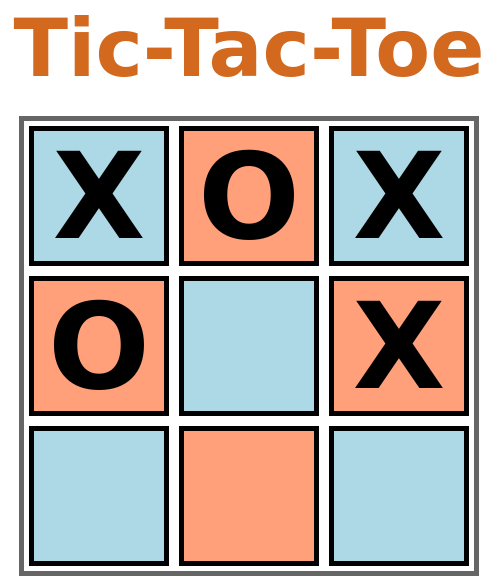
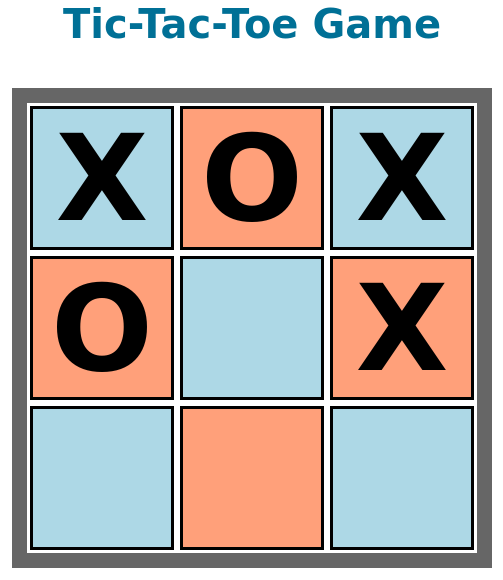
Ajout séance 8

diff --git a/seance08.html b/seance08.html
@@ -1,0 +1,167 @@
+<!DOCTYPE html>
+<html lang="en">
+
+<head>
+  <meta charset="UTF-8">
+  <meta name="viewport" content="width=device-width, initial-scale=1.0">
+  <title>Conception Web - Séance 7</title>
+  <link rel="stylesheet" href="assets/css/bootstrap.min.css">
+  <link rel="stylesheet" href="assets/css/default.css">
+  <link rel="stylesheet" href="assets/css/style.css">
+</head>
+
+<body>
+  <aside>
+    <nav class="navbar navbar-expand-sm navbar-dark bg-dark">
+      <div class="container-fluid">
+        <a class="navbar-brand" href="#">Web</a>
+        <button class="navbar-toggler" type="button" data-bs-toggle="collapse" data-bs-target="#aside_navbar"
+          aria-controls="navbarNavDropdown" aria-expanded="false" aria-label="Toggle navigation">
+          <span class="navbar-toggler-icon"></span> Menu
+        </button>
+        <div class="collapse navbar-collapse" id="aside_navbar"></div>
+      </div>
+    </nav>
+  </aside>
+  <main class="my-4 container">
+    <h1>Conception Web - Séance 8</h1>
+
+    <article>
+      <h2>Les feuilles de style</h2>
+
+      <section>
+        <h3>Tic-Tac-Toe Game</h3>
+
+        <p>On veut concevoir la plateforme du jeu, très connu : Tic-Tac-Toe</p>
+        <figure>
+          <img src="assets/downloads/tp6/images/tic-tac-toe.png" alt="Tic-Tac-Toe Game">
+          <figcaption>Tic-Tac-Toe Game</figcaption>
+        </figure>
+
+        <h4>Travail Demandé</h4>
+        <ol>
+          <li>Créer un dossier nommé : <strong>tictactoe</strong>. Créer dans ce dossier deux fichiers :
+            <ul>
+              <li>tictactoe.html</li>
+              <li>tictactoe.css</li>
+            </ul>
+          </li>
+          <li>Lier la feuille de style <strong>tictactoe.css</strong> au fichier HTML <strong>tictactoe.html</strong>.
+          </li>
+          <li>Copier/Coller le code HTML suivant dans la partie <code>&lt;body&gt;...&lt;/body&gt;</code> de la page.
+            <pre><code class="html">&lt;h1&gt;Tic-Tac-Toe Game&lt;/h1&gt;
+&lt;div id=&quot;game&quot;&gt;
+  &lt;div class=&quot;carre col-1&quot;&gt;X&lt;/div&gt;
+  &lt;div class=&quot;carre col-2&quot;&gt;O&lt;/div&gt;
+  &lt;div class=&quot;carre col-1&quot;&gt;X&lt;/div&gt;
+  &lt;div class=&quot;carre col-2&quot;&gt;O&lt;/div&gt;
+  &lt;div class=&quot;carre col-1&quot;&gt;&lt;/div&gt;
+  &lt;div class=&quot;carre col-2&quot;&gt;X&lt;/div&gt;
+  &lt;div class=&quot;carre col-1&quot;&gt;&lt;/div&gt;
+  &lt;div class=&quot;carre col-2&quot;&gt;&lt;/div&gt;
+  &lt;div class=&quot;carre col-1&quot;&gt;&lt;/div&gt;
+&lt;/div&gt;</code></pre>
+          </li>
+          <li>Mettre en forme le titre <code>&lt;h1&gt;...&lt;/h1&gt;</code>:
+            <ul>
+              <li>Police : sans-serif, Taille : 40px</li>
+              <li>Titre centré avec une marge verticale de 40px</li>
+              <li>Couleur : <span style="color: #007096;">#007096</span></li>
+            </ul>
+          </li>
+          <li>Mettre en forme l'élément ayant <strong>game</strong> comme id :
+            <ul>
+              <li>Largeur : 450 pixels</li>
+              <li>Display : <code>flex</code> avec retour à la ligne autmoatique</li>
+              <li>Marges horizontales : automatiques</li>
+              <li>Bordure de 15 pixels de couleur #666</li>
+            </ul>
+          </li>
+          <li>Mettre en forme l'élément ayant <strong>carre</strong> comme classe :
+            width: 120px;
+            height: 120px;
+            padding: 9px;
+            margin: 3px;
+            font-size: 120px;
+            font-weight: bold;
+            line-height: 120px;
+            text-align: center;
+            border: #000 solid 3px            
+            <ul>
+              <li>Dimensions : 120 pixels &times; 120 pixels</li>
+              <li>Marge intérieure : 9 pixels</li>
+              <li>Marge extérieure : 3 pixels</li>
+              <li>Texte centré, Taille : 120 pixels, Style : Gras</li>
+              <li>Bordure de 3 pixels couleur #000</li>
+              <li>Hauteur de lignes (line-height) : 120 pixels</li>
+            </ul>
+          </li>
+          <li>Mettre en form les éléments ayant <strong>col-1</strong> et <strong>col-2</strong> comme classes :
+            <ul>
+              <li>Couleur d'arrière plan de col-1 : lightblue</li>
+              <li>Couleur d'arrière plan de col-2 : lightsalmon</li>
+            </ul>
+          </li>
+        </ol>
+        <div class="d-none d-print-block">
+          <h4>Correction - Tic-Tac-Toe Game</h4>
+
+          <p>Contenu du fichier : <strong>tictactoe.css</strong></p>
+
+          <pre><code class="css">body {
+  font-family: sans-serif;
+  font-size: 20px;
+  padding: 0;
+}
+
+h1 {
+  text-align: center;
+  color: #007096;
+  margin: 40px 0;
+}
+
+#game {
+  width: 450px;
+  display: flex;
+  flex-wrap: wrap;
+  margin: 0 auto;
+  border: #666 solid 15px;
+}
+
+.carre {
+	width: 120px;
+	height: 120px;
+	padding: 9px;
+	margin: 3px;
+	font-size: 120px;
+  font-weight: bold;
+	line-height: 120px;
+	text-align: center;
+	border: #000 solid 3px;
+}
+
+.col-1 {
+  background-color: lightblue;
+}
+
+.col-2 {
+  background-color: lightsalmon;
+}</code></pre>
+        </div>
+      </section>
+    </article>
+  </main>
+  <footer class="d-print-none bg-dark text-white p-2">
+    <div class="text-center">Page créée avec ♥ par Mohamed Anis MANI</div>
+    <div class="text-center small">Année scolaire : 2021/2022</div>
+  </footer>
+  <script src="assets/js/bootstrap.bundle.min.js"></script>
+  <script src="assets/js/highlight.pack.js"></script>
+  <script src="assets/js/jquery.min.js"></script>
+  <script src="assets/js/pages.js"></script>
+  <script>
+    hljs.initHighlightingOnLoad();
+  </script>
+</body>
+
+</html>

diff --git a/assets/downloads/tp6/tictactoe/style.css b/assets/downloads/tp6/tictactoe/style.css
@@ -1,14 +1,13 @@
 body {
   font-family: sans-serif;
-  font-size: 40px;
-  margin: 0;
+  font-size: 20px;
   padding: 0;
 }
 
 h1 {
   text-align: center;
-  color: chocolate;
-  margin: 20px 0;
+  color: #007096;
+  margin: 40px 0;
 }
 
 #game {
@@ -16,19 +15,19 @@ h1 {
   display: flex;
   flex-wrap: wrap;
   margin: 0 auto;
-  border: #666 solid 5px;
+  border: #666 solid 15px;
 }
 
 .carre {
 	width: 120px;
 	height: 120px;
-	padding: 5px;
-	margin: 5px;
+	padding: 9px;
+	margin: 3px;
 	font-size: 120px;
   font-weight: bold;
 	line-height: 120px;
 	text-align: center;
-	border: #000 solid 5px;
+	border: #000 solid 3px;
 }
 
 .col-1 {

diff --git a/assets/downloads/tp6/tictactoe/tictactoe.html b/assets/downloads/tp6/tictactoe/tictactoe.html
@@ -10,7 +10,7 @@
 </head>
 
 <body>
-  <h1>Tic-Tac-Toe</h1>
+  <h1>Tic-Tac-Toe Game</h1>
   <div id="game">
     <div class="carre col-1">X</div>
     <div class="carre col-2">O</div>
